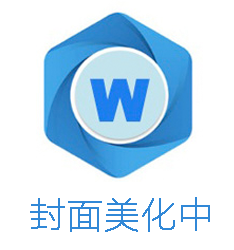
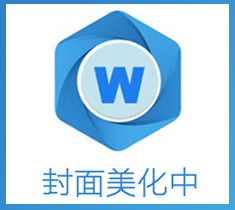
主题颜色修改

diff --git a/css/screen.css b/css/screen.css
@@ -1,18 +1,18 @@
 @media screen and (max-width: 400px) {
-	.condition-box{width:88%;padding:10px 20px;background:#FFFFFF;border:1px solid #FF8000;position:absolute;display:none;}
+	.condition-box{width:88%;padding:10px 20px;background:#FFFFFF;border:1px solid #31A2D9;position:absolute;display:none;}
 	.condition-search-div input{width:80%;}
 	.condition-search-div span{width:20%}
-	#screen-box{height:80px;background:#FF8000;	margin-bottom:10px;	border-radius:4px;}
-	.screen-item{margin:10px 30px auto 30px;border:1px solid #ffffff;color:#345ABF;display: inline-block;}
-	.page-div{background:#FF8000;position:fixed;bottom:0;width:100%;left:0;text-align:center;}
+	#screen-box{height:80px;background:#31A2D9;	margin-bottom:10px;	border-radius:4px;}
+	.screen-item{margin:10px 30px auto 30px;border:1px solid #ffffff;color:#31A2D9;display: inline-block;}
+	.page-div{background:#31A2D9;position:fixed;bottom:0;width:100%;left:0;text-align:center;}
 }
 @media screen and (min-width: 401px) {
-	.condition-box{	width:918px;padding:10px 20px;background:#FFFFFF;border:1px solid #FF8000;position:absolute;top:0;left:50%;	margin-left:-480px;	display:none;}
+	.condition-box{	width:918px;padding:10px 20px;background:#FFFFFF;border:1px solid #31A2D9;position:absolute;top:0;left:50%;	margin-left:-480px;	display:none;}
 	.condition-search-div input{width:95%;}
 	.condition-search-div span{width:5%}
-	#screen-box{height:60px;line-height:60px;background:#FF8000;margin-bottom:10px;	border-radius:4px;}
-	.screen-item{margin:19px 30px;border:1px solid #ffffff;color:#345ABF;display: inline-block;}
-	.page-div{background:#FF8000;position:fixed;bottom:0;width:960px;text-align:center;}
+	#screen-box{height:60px;line-height:60px;background:#31A2D9;margin-bottom:10px;	border-radius:4px;}
+	.screen-item{margin:19px 30px;border:1px solid #ffffff;color:#31A2D9;display: inline-block;}
+	.page-div{background:#31A2D9;position:fixed;bottom:0;width:960px;text-align:center;}
 }
 @charset "utf-8";
 
@@ -24,7 +24,7 @@
 	width:60px;
 	text-align:center;
 	border:none;
-	color:#345ABF;
+	color:#31A2D9;
 	float:left;
 	cursor:default;
 	height:19px;
@@ -63,7 +63,7 @@
 	margin-right:3px!important;
 }
 .condition-item:hover{
-	color:#FF8000;
+	color:#31A2D9;
 }
 .condition-search-div{
 	margin:20px;
@@ -74,14 +74,14 @@
 }
 .condition-search-div input{
 	height:25px;
-	border:1px solid #FF8000;
+	border:1px solid #31A2D9;
 	border-radius:3px 0 0 3px;
 	float:left;
 	padding:3px;
 }
 .condition-search-div span{
 	text-align:center;
-	background:#FF8000;
+	background:#31A2D9;
 	border-radius:0 3px 3px 0;
 	color:#ffffff;
 	display:inline-block;
@@ -91,12 +91,12 @@
 	cursor:default;
 }
 .item-active{
-	color:#FF8000;
+	color:#31A2D9;
 }
 
 /*查询了 分类*/
 .class-title{
-	background:#FF8000;
+	background:#31A2D9;
 	color:#ffffff;
 	float:left;
 	padding:3px 10px;
@@ -115,10 +115,10 @@
 	cursor:pointer;
 }
 .class-name span:hover{
-	color:#FF8000;
+	color:#31A2D9;
 }
 .activ{
-	color:#FF8000;
+	color:#31A2D9;
 }
 .class-div{
 	clear:left;

diff --git a/css/base.css b/css/base.css
@@ -83,7 +83,7 @@ li{
 	background:#ffffff;
 }
 .nav-ative{
-	background:#FF8000;
+	background:#31A2D9;
 	color:#ffffff!important;
 }
 /*项目名称搜索框*/
@@ -92,7 +92,7 @@ li{
 	display:inline-block;
 	height:30px;
 	width:300px;
-	border:0.2em solid #FF8000;
+	border:0.2em solid #31A2D9;
 	float: right;
 }
 .navs{
@@ -110,7 +110,7 @@ li{
 #title-screen-box span{
 	display: inline-block;
 	height: 30px;
-	background: #FF8000;
+	background: #31A2D9;
 	color: #ffffff;
 	float: right;
 	line-height: 30px;
@@ -199,11 +199,11 @@ li{
 	color:#FF0000;
 }
 /*边框颜色开始*/
-.bbw{border:1px solid #FFFFFF;}.bbb{border:1px solid #000000;}.bb0{border:1px solid #FF0000;}.bb1{border:1px solid #F6941D;}.bb2{border:1px solid #FFFF00;}.bb3{border:1px solid #99CC33;}.bb4{border:1px solid #219167;}.bb5{border:1px solid #24998D;}.bb6{border:1px solid #0080FF;}.bb7{border:1px solid #333399;}.bb8{border:1px solid #800080;}.bb9{border:1px solid #C71585;}/*边框颜色结束*/
+.bbw{border:1px solid #FFFFFF;}.bbb{border:1px solid #000000;}.bb0{border:1px solid #FF0000;}.bb1{border:1px solid #207CEA;}.bb2{border:1px solid #FFFF00;}.bb3{border:1px solid #99CC33;}.bb4{border:1px solid #219167;}.bb5{border:1px solid #24998D;}.bb6{border:1px solid #0080FF;}.bb7{border:1px solid #333399;}.bb8{border:1px solid #800080;}.bb9{border:1px solid #31A2D9;}/*边框颜色结束*/
 /*背景颜色开始*/
-.bgw{background:#FFFFFF;}.bgb{background:#000000;}.bg0{background:#FF0000;}.bg1{background:#F6941D;}.bg2{background:#FFFF00;}.bg3{background:#99CC33;}.bg4{background:#219167;}.bg5{background:#24998D;}.bg6{background:#0080FF;}.bg7{background:#333399;}.bg8{background:#800080;}.bg9{background:#C71585;}/*背景颜色结束*/
+.bgw{background:#FFFFFF;}.bgb{background:#000000;}.bg0{background:#FF0000;}.bg1{background:#207CEA;}.bg2{background:#FFFF00;}.bg3{background:#99CC33;}.bg4{background:#219167;}.bg5{background:#24998D;}.bg6{background:#0080FF;}.bg7{background:#333399;}.bg8{background:#800080;}.bg9{background:#31A2D9;}/*背景颜色结束*/
 /*字体颜色开始*/
-.clw{color:#FFFFFF;}.clb{color:#000000;}.cl0{color:#FF0000;}.cl1{color:#F6941D;}.cl2{color:#FFFF00;}.cl3{color:#99CC33;}.cl4{color:#219167;}.cl5{color:#24998D;}.cl6{color:#0080FF;}.cl7{color:#333399;}.cl8{color:#800080;}.cl9{color:#C71585;}/*字体颜色结束*/
+.clw{color:#FFFFFF;}.clb{color:#000000;}.cl0{color:#FF0000;}.cl1{color:#207CEA;}.cl2{color:#FFFF00;}.cl3{color:#99CC33;}.cl4{color:#219167;}.cl5{color:#24998D;}.cl6{color:#0080FF;}.cl7{color:#333399;}.cl8{color:#800080;}.cl9{color:#31A2D9;}/*字体颜色结束*/
 /*字体大小开始*/
 .fs0{font-size:0.5em;}.fs1{font-size:0.6em;}.fs2{font-size:0.7em;}.fs3{font-size:0.8em;}.fs4{font-size:0.9em;}.fs5{font-size:1em;}.fs6{font-size:1.5em;}.fs7{font-size:2em;}.fs8{font-size:3em;}.fs9{font-size:5em;}/*字体大小结束*/
 /*按钮格式开始*/

diff --git a/css/index.css b/css/index.css
@@ -4,11 +4,11 @@
 	.user-info-box,.navs ul,#title-screen-box,.news-box,.controller,.frame{display:none;}
 	.logo-nav,.w970{width:100%;} 
 	#header{margin-top:50px;}
-	.wap-nav{display:block;width:100%;height:40px;background:#FF8000;position:absolute;top:0;left:0;}
+	.wap-nav{display:block;width:100%;height:40px;background:#31A2D9;position:absolute;top:0;left:0;}
 	.w970{ overflow:hidden; zoom:1;}
 	.wap-navlist{float:left;background:url("../images/listview.png");background-size:30px 30px;width:30px;height:30px;display:inline-block;margin-top:5px;margin-left:5px;cursor:pointer;}
 	.wap-user{float:left;color:#ffffff;height:40px;line-height:40px;margin-left:10px;}
-	.navs ul{width:100px;background:#FF8000;text-align:center;color:#ffffff;position:absolute;padding:10px 0;}
+	.navs ul{width:100px;background:#31A2D9;text-align:center;color:#ffffff;position:absolute;padding:10px 0;}
 	.navs ul li a{color:#ffffff;display: inline-block;width: 100%;height:40px;line-height:40px;}
 	.big-post{ width:236px; margin:0 5px 10px 28px;} 
 	.footer p{font-size: 0.8em;}
@@ -21,9 +21,9 @@
 	.w970{width:970px; overflow:hidden; zoom:1;}
 	.news-box{position:fixed;display:inline-block;}
 	.navs ul{height:40px;line-height:40px;}
-	.navs ul li{	float:left;	margin:0 10px;	border:1px solid #FF8000;	border-radius:5px;	cursor:pointer;}
-	.navs ul li a{	display:inline-block;	padding:0 20px;	color:#FF8000;}
-	.navs ul li:hover{	background:#FF8000;}
+	.navs ul li{	float:left;	margin:0 10px;	border:1px solid #31A2D9;	border-radius:5px;	cursor:pointer;}
+	.navs ul li a{	display:inline-block;	padding:0 20px;	color:#31A2D9;}
+	.navs ul li:hover{	background:#31A2D9;}
 	.navs ul li a:hover{color:#ffffff;}
 	.big-post{ width:236px; margin:0 5px 10px 0px;} 
 	.footer p{font-size: 0.9em;}
@@ -121,14 +121,14 @@ ul{
 	margin-right:10px;
 	width:170px;
 	height:200px;
-	border:1px solid #FF6600;
+	border:1px solid #31A2D9;
 	border-radius:10px 10px 0px 0px;
 	z-index:999
 }
 .news-head{
 	border-radius:8px 8px 0px 0px;
 	text-align:center;
-	background:#FF8000;
+	background:#31A2D9;
 	color:#ffffff;
 	height:25px;
 	line-height:25px;
@@ -158,7 +158,7 @@ ul{
 	margin:0 10px 5px 5px;
 }
 #newsp-box{
-	border:2px solid #FF8000;
+	border:2px solid #31A2D9;
 	border-radius:10px 10px 0 0;
 	height:300px;
 	width:300px;
@@ -171,7 +171,7 @@ ul{
 	display:none;
 }
 #newsp-box .newsp-head{
-	background:#FF8000;
+	background:#31A2D9;
 	color:#ffffff;
 	text-align:center;
 	border-radius:8px 8px 0 0;
@@ -195,7 +195,7 @@ ul{
 }
 .close-ico:hover{
 	background:#ffffff;
-	color:#FF8000;
+	color:#31A2D9;
 }
 .newsp-content{
 	margin:10px;

diff --git a/css/page.css b/css/page.css
@@ -174,7 +174,7 @@ span{
 }
 .feedback-head span{
 	padding:5px 10px;
-	background:#400099;
+	background:#2D7EC4;
 	color:#ffffff;
 	border-radius:5px;
 }
@@ -222,9 +222,9 @@ span{
 	cursor:pointer;
 }
 .feedback-content{
-	border: 1px solid #FF6600;
+	border: 1px solid #C3E2ED;
 	border-radius: 5px;
-	box-shadow: 0 0 5px 2px #FF6600;
+	box-shadow: 0 0 5px 2px #C3E2ED;
 	margin: 0 0px 20px 30px;
 	padding: 20px 0;
 	width:70%;

diff --git a/admin/css/admin.css b/admin/css/admin.css
@@ -80,7 +80,7 @@ body{
 	display:inline-block;
 	height:30px;
 	line-height:30px;
-	background:#FF6600;
+	background:#31A2D9;
 	color:FFFFFF;
 	margin:0 10px;
 	padding:0 20px;
